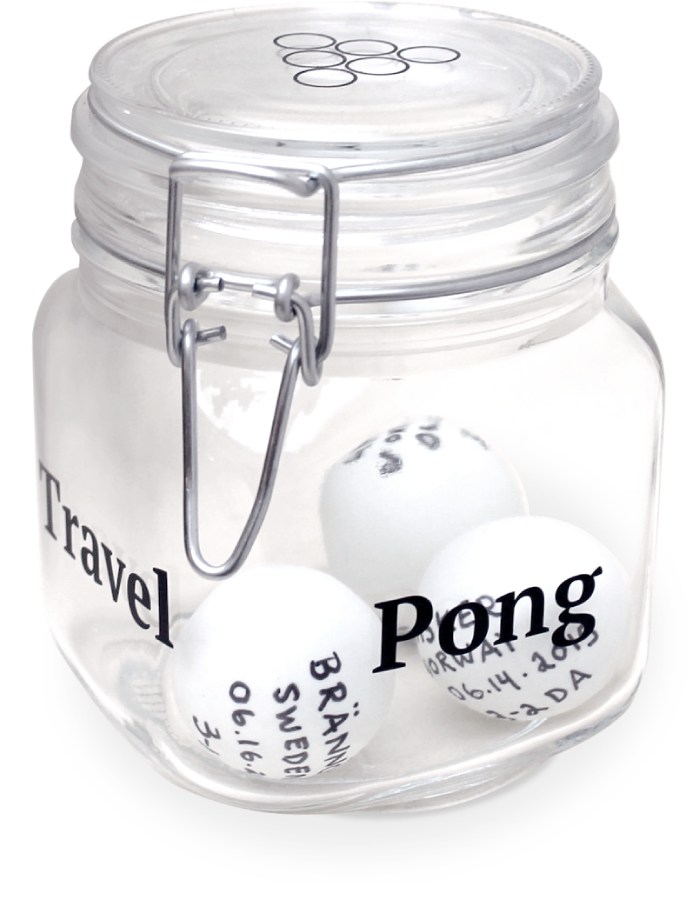
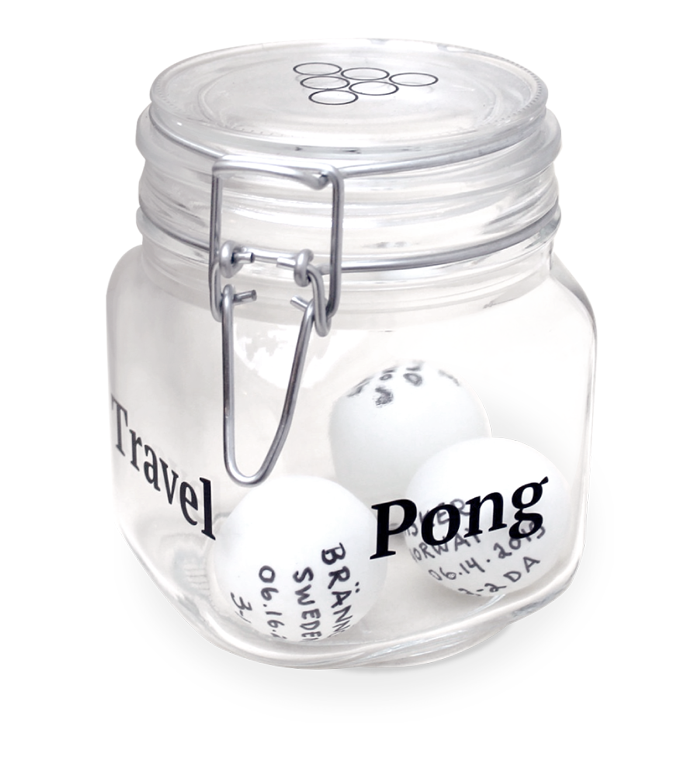
smaller tp

diff --git a/index.html b/index.html
@@ -242,7 +242,7 @@
         
         </div>
         <div class="container">
-            <img class="fancybox col-md-4 col-md-push-7 topsm" src="img/travelpong-4.png" href="#travelpong" alt="Travel Pong">
+            <img class="fancybox col-md-5 col-md-push-6" src="img/travelpong-4.png" href="#travelpong" alt="Travel Pong">
         </div>
             
         <div class="inline" id="travelpong"> 
